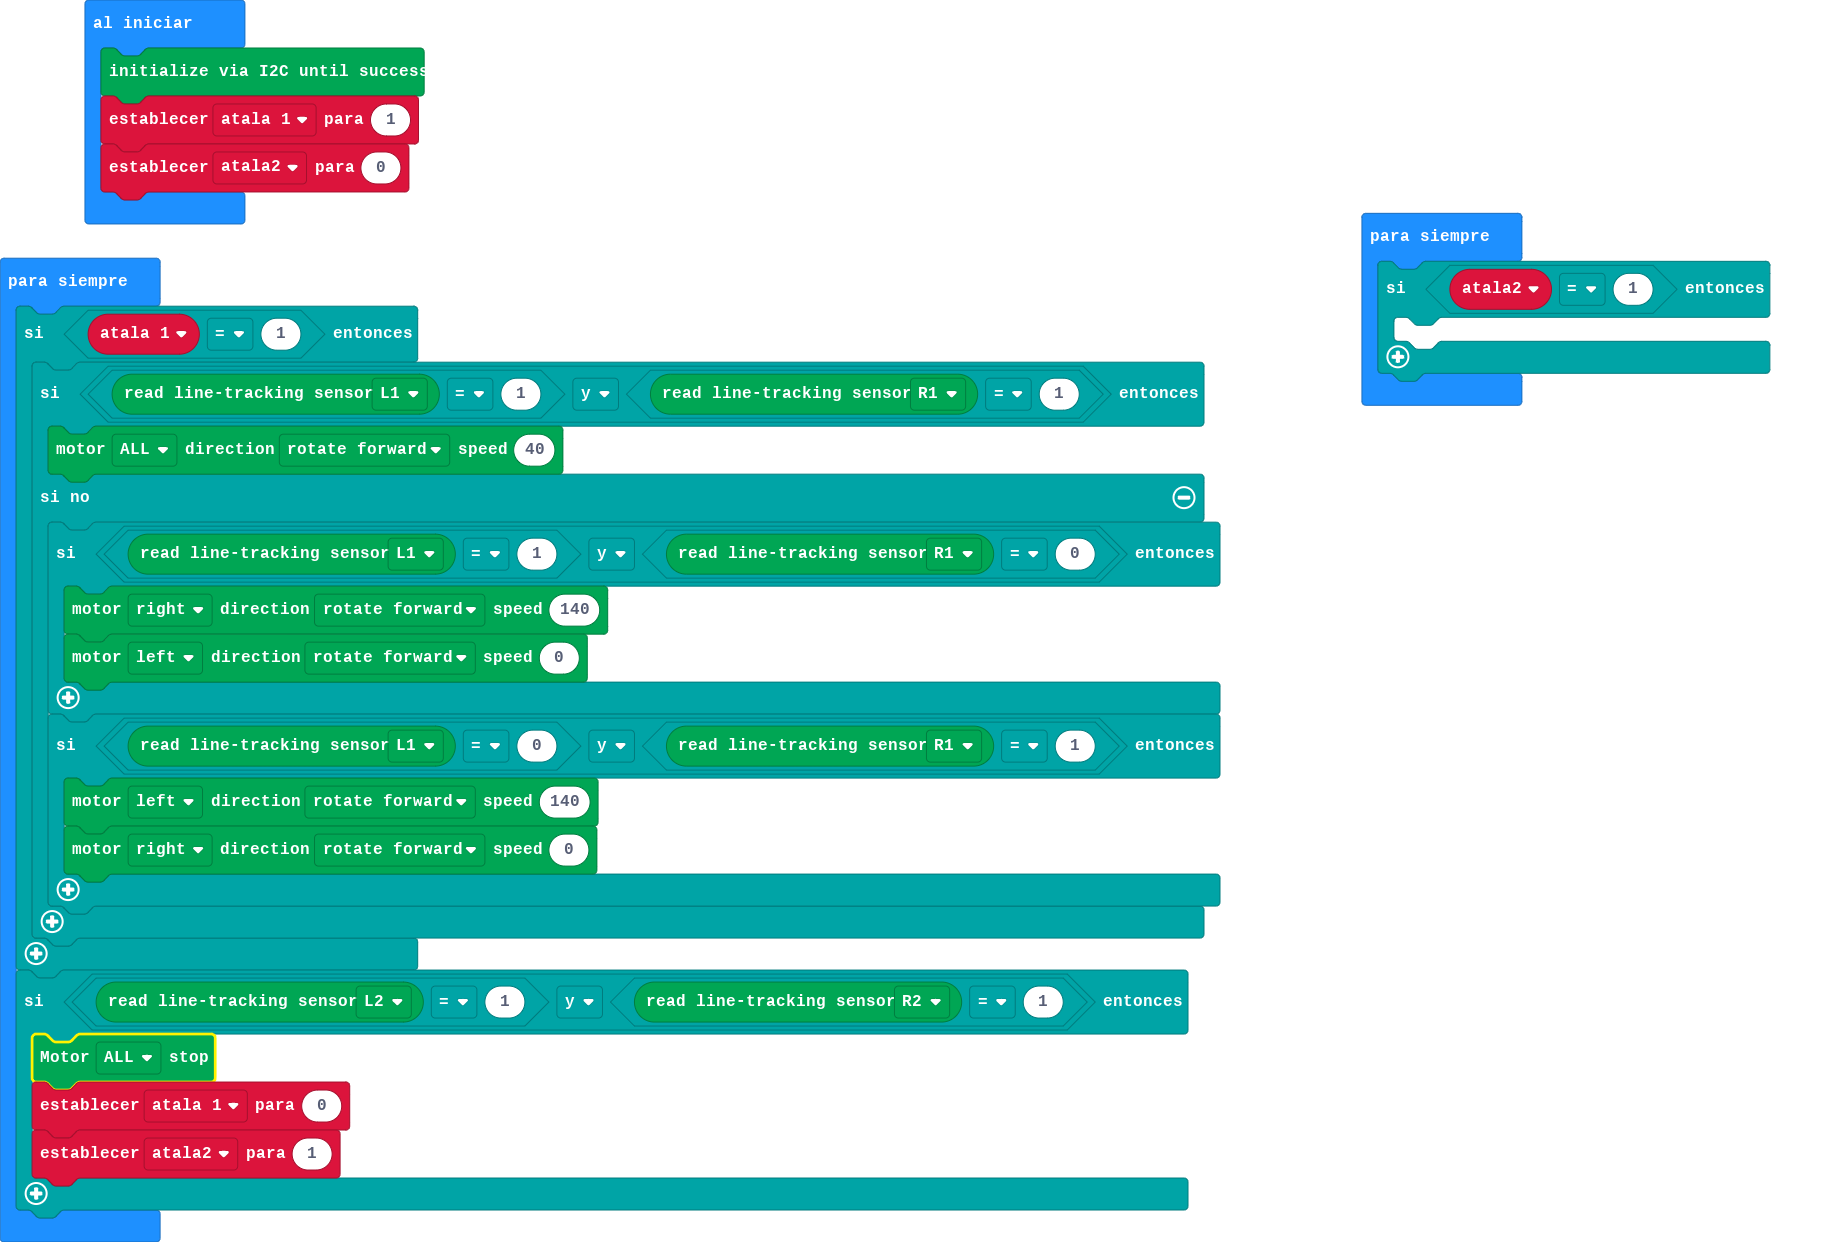
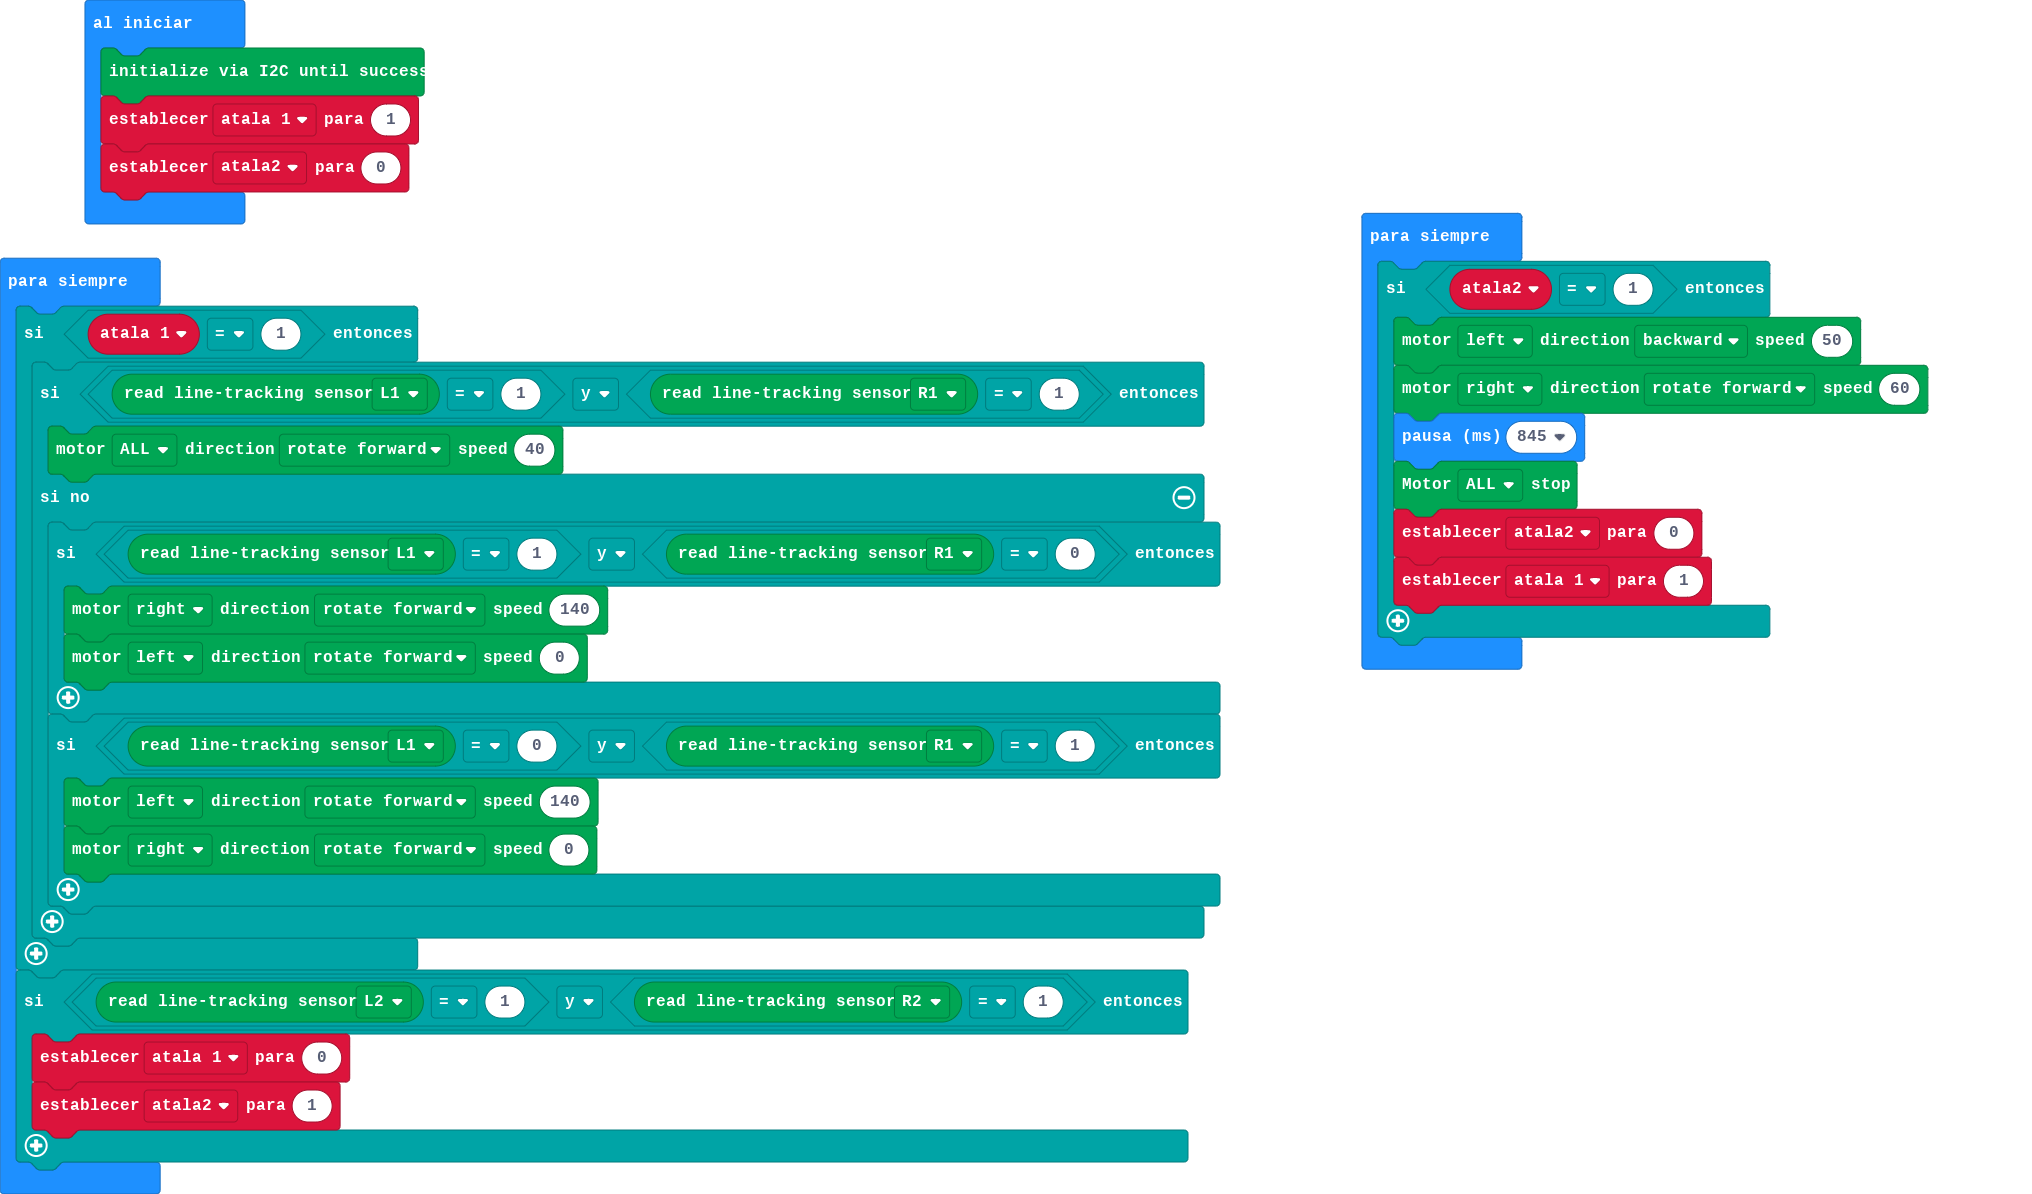
Actualizar main.blocks, main.ts

diff --git a/main.ts b/main.ts
@@ -17,13 +17,17 @@ basic.forever(function () {
         }
     }
     if (DFRobotMaqueenPlus.readPatrol(Patrol.L2) == 1 && DFRobotMaqueenPlus.readPatrol(Patrol.R2) == 1) {
-        DFRobotMaqueenPlus.mototStop(Motors.ALL)
         atala_1 = 0
         atala2 = 1
     }
 })
 basic.forever(function () {
     if (atala2 == 1) {
-    	
+        DFRobotMaqueenPlus.mototRun(Motors.M1, Dir.CCW, 50)
+        DFRobotMaqueenPlus.mototRun(Motors.M2, Dir.CW, 60)
+        basic.pause(845)
+        DFRobotMaqueenPlus.mototStop(Motors.ALL)
+        atala2 = 0
+        atala_1 = 1
     }
 })
